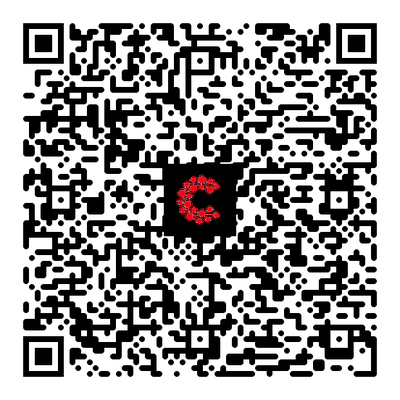
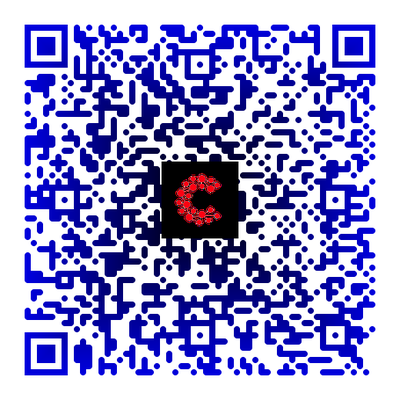
added color mask; fixed css

diff --git a/static/style.css b/static/style.css
@@ -8,10 +8,24 @@ img {
 }
 
 h1 {
+    font-size: 46px;
     text-align: center;
+    font-family: "Times New Roman", Times, serif;
 }
 
 div {
-    margin: 0 auto; 
+    margin: 10 auto; 
     text-align: center;
+}
+
+select, input {
+    padding: 16px 20px;
+    border: none;
+    border-radius: 4px;
+    background-color: #f1f1f1;
+}
+
+.btn {
+    padding: 30px;
+    margin: 10px;
 }

diff --git a/templates/home.html b/templates/home.html
@@ -25,7 +25,7 @@
                 <option value="https://casper.live/transfer">casper.live</option>
                 <option value="https://testnet.casper.live/transfer">testnet.casper.live</option>
             </select>
-            
+            <br>
             <button type="submit" class="btn">Display QR-code</button>
             
         </form>

diff --git a/application.py b/application.py
@@ -1,15 +1,18 @@
+import base64
 from flask import Flask, render_template, request, send_from_directory
 from PIL import Image
+from io import BytesIO
 
 import qrcode
 from qrcode.image.styledpil import StyledPilImage
 from qrcode.image.styles.moduledrawers import RoundedModuleDrawer
 from qrcode.image.styles.colormasks import SquareGradiantColorMask
-import base64
-from io import BytesIO
+
 
 application = Flask(__name__)
 app = application
+
+
 def return_image(image):
     data = BytesIO()
     image.save(data, "PNG")
@@ -48,13 +51,13 @@ def generate_image(address:str='', amount=0, message:str='', transaction:str='',
         back_color="white",\
         image_factory=StyledPilImage,\
         module_drawer=RoundedModuleDrawer(),\
-        #color_mask=SquareGradiantColorMask()\
-        ).convert('RGB')
+        color_mask=SquareGradiantColorMask()\
+    ).convert('RGB')
 
     # position the logo
     pos = ((QRimg.size[0] - logo.size[0]) // 2,
             (QRimg.size[1] - logo.size[1]) // 2)
-    QRimg.paste(logo,pos,)# put QRimg.paste(logo,pos,log) to make the logo transparent
+    QRimg.paste(logo,pos)# put QRimg.paste(logo,pos,log) to make the logo fully transparent
 
     # set size of QR code
     return QRimg.resize((400, 400), Image.ANTIALIAS)
@@ -63,7 +66,6 @@ def generate_image(address:str='', amount=0, message:str='', transaction:str='',
 def home():
     if request.method == "POST":
         data = [x for x in request.form.values()]
-        print(data)
         image = generate_image(data[0],data[1],data[2],data[3],data[4])
 
     else: 
@@ -77,4 +79,4 @@ def send():
     return send_from_directory(directory='./static/',path='output.png',as_attachment=True)
 
 if __name__ == "__main__":
-  app.run()
+    app.run()
